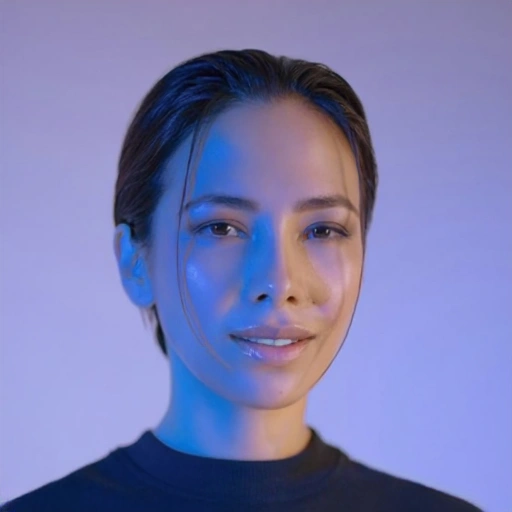
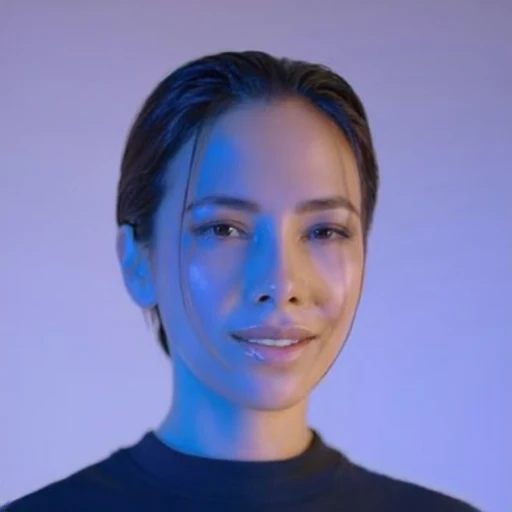
Fix backend API URL to use env variable

diff --git a/frontend/src/config.js b/frontend/src/config.js
@@ -1,2 +1,2 @@
-const API_BASE = "https://imagify-pro-production.up.railway.app";
+const API_BASE = import.meta.env.VITE_API_URL || "http://localhost:8000";
 export default API_BASE;